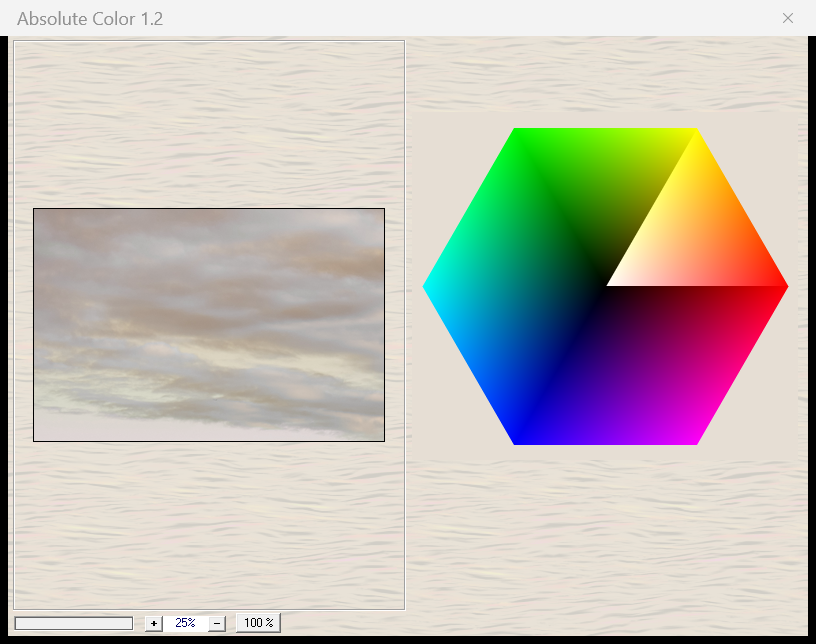
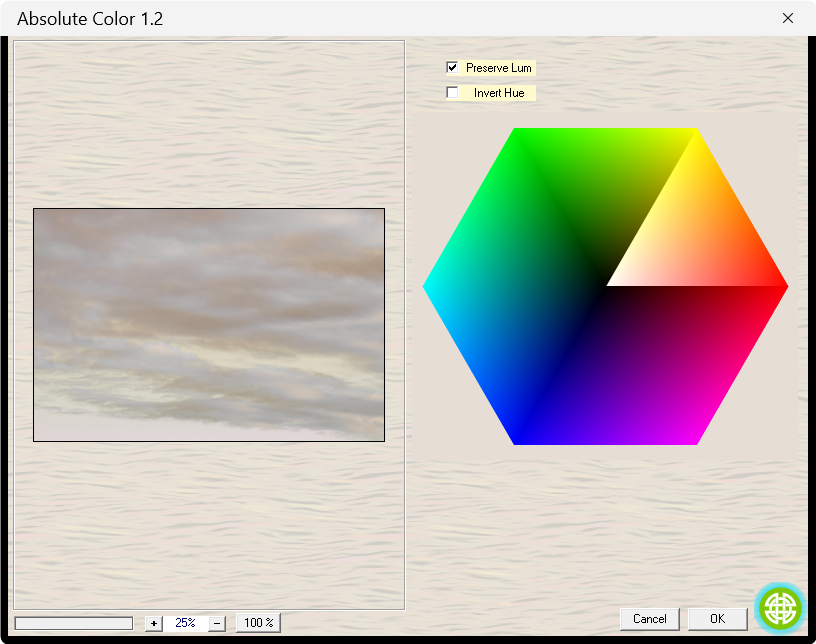
README screenshot driver runs the plug-in dialog scene, skipped without its fixture

diff --git a/scripts/dev/readme-shots/plugin-dialog.js b/scripts/dev/readme-shots/plugin-dialog.js
@@ -3,9 +3,10 @@
 // @description dialog for docs/images/screenshots/plugin_dialog.png. Dev tooling, never staged.
 // @cli --script-arg out=plugin_dialog.png --script-arg plugins=local-test-fixtures/photoshop-plugins/mehdi --script-arg photo=test-fixtures/readme/san_francisco_cityscape_cc0.jpg --script-arg name=Absolute Color
 //
-// Windows only, and manual: the plug-in (Mehdi's Absolute Color, see agents_local.md)
-// is not committed, so this scene is not in scripts\make-readme-screenshots.ps1's table.
-// Run it from a real (not offscreen) session, for example:
+// Windows only. The plug-in (Mehdi's Absolute Color, see agents_local.md) is not
+// committed: scripts\make-readme-screenshots.ps1 lists this scene as plugin_dialog
+// and skips it when local-test-fixtures\photoshop-plugins\mehdi is missing. To run
+// it by hand from a real (not offscreen) session:
 //
 //   set PATCHY_NO_SINGLE_INSTANCE=1
 //   build\release\patchy.exe --run-script scripts\dev\readme-shots\plugin-dialog.js ^

diff --git a/docs/plugins.md b/docs/plugins.md
@@ -55,7 +55,7 @@ permission; desktop screenshots, global input, and control of other applications
 (AGENTS.md). Use task-owned instances with isolated settings. See
 [testing.md](testing.md#native-visual-qa-and-app-driving-commands).
 
-`patchy.plugins.list()` (`{id, name, category, path, supported, reason, architecture}` for every file the last scan saw), `patchy.plugins.rescan()`, `patchy.plugins.folders` (get/set, persisted, rescans), `patchy.plugins.folder` (the plug-ins folder, created with its README on read; "" off Windows), `layer.applyPlugin(id, {dialog?: boolean, captureDialog?: string})` (8 or 16-bit pixel layers; unknown options throw): `captureDialog` is a PNG path; the runner's `DialogAcceptor` saves the helper's first visible top-level window with `PrintWindow(PW_RENDERFULLCONTENT)` once it has been up 0.7 s (with `dialog:true` in an attended run it only captures; unattended runs show the dialog for the capture and then answer it). The auto-accept escalates while a window stays up: a standard OK button or the IDOK command, then the Enter key (custom UIs such as KPT's MetaOS windows have no Button controls), then WM_CLOSE and SC_CLOSE, and after eight answers to a window that is still up the runner gives up and ends the helper (KPT ignores them and spins in its own loop), so an unattended run ends as "cancelled" at worst instead of hanging. Off the interactive window station (a service or ssh session) Windows never shows the dialog, so the helper's hidden `#32770` dialogs are answered, uncaptured (`dialogs_can_be_hidden`). Only the helper's largest visible window is captured and answered (KPT's MetaOS opens a 153x44 stub, then a full-screen `CCanvas`); `PATCHY_8BF_DIALOG_SETTLE_MS` (default 700) is how long a new window is left alone first, `PATCHY_8BF_ACCEPT_CLICK=dx,dy` (developer knob) first clicks that far from the window's bottom-right corner (KPT's OK mark lives there; `30,30` accepts it), and `PATCHY_8BF_TRACE=1` also prints every helper window (class, title, size) and every `advanceState` request to stderr. Verified plug-ins: Filter Foundry builds (32/64), Mehdi's Absolute Color (32/64), Kai's Power Tools 5 (Blurrrr and Orb-It apply their result; the full-screen MetaOS interface and its preview work; KPT 3 is untested), and [G'MIC-Qt for 8bf hosts](https://github.com/0xC0000054/gmic-8bf/releases) 4.0.4 x64 (unzip it into the plug-ins folder; Sepia on a layer and inside a selection, October 2026. It needs the Parameters selector and a real display: an unattended `applyPlugin` or a `--headless` run ends as cancelled. Untested: 16-bit, transparency, resizing filters, the 32-bit build). It backs `docs/images/screenshots/plugin_dialog.png` (`scripts/dev/readme-shots/plugin-dialog.js`, run separately: the plug-in is third-party).
+`patchy.plugins.list()` (`{id, name, category, path, supported, reason, architecture}` for every file the last scan saw), `patchy.plugins.rescan()`, `patchy.plugins.folders` (get/set, persisted, rescans), `patchy.plugins.folder` (the plug-ins folder, created with its README on read; "" off Windows), `layer.applyPlugin(id, {dialog?: boolean, captureDialog?: string})` (8 or 16-bit pixel layers; unknown options throw): `captureDialog` is a PNG path; the runner's `DialogAcceptor` saves the helper's first visible top-level window with `PrintWindow(PW_RENDERFULLCONTENT)` once it has been up 0.7 s (with `dialog:true` in an attended run it only captures; unattended runs show the dialog for the capture and then answer it). The auto-accept escalates while a window stays up: a standard OK button or the IDOK command, then the Enter key (custom UIs such as KPT's MetaOS windows have no Button controls), then WM_CLOSE and SC_CLOSE, and after eight answers to a window that is still up the runner gives up and ends the helper (KPT ignores them and spins in its own loop), so an unattended run ends as "cancelled" at worst instead of hanging. Off the interactive window station (a service or ssh session) Windows never shows the dialog, so the helper's hidden `#32770` dialogs are answered, uncaptured (`dialogs_can_be_hidden`). Only the helper's largest visible window is captured and answered (KPT's MetaOS opens a 153x44 stub, then a full-screen `CCanvas`); `PATCHY_8BF_DIALOG_SETTLE_MS` (default 700) is how long a new window is left alone first, `PATCHY_8BF_ACCEPT_CLICK=dx,dy` (developer knob) first clicks that far from the window's bottom-right corner (KPT's OK mark lives there; `30,30` accepts it), and `PATCHY_8BF_TRACE=1` also prints every helper window (class, title, size) and every `advanceState` request to stderr. Verified plug-ins: Filter Foundry builds (32/64), Mehdi's Absolute Color (32/64), Kai's Power Tools 5 (Blurrrr and Orb-It apply their result; the full-screen MetaOS interface and its preview work; KPT 3 is untested), and [G'MIC-Qt for 8bf hosts](https://github.com/0xC0000054/gmic-8bf/releases) 4.0.4 x64 (unzip it into the plug-ins folder; Sepia on a layer and inside a selection, October 2026. It needs the Parameters selector and a real display: an unattended `applyPlugin` or a `--headless` run ends as cancelled. Untested: 16-bit, transparency, resizing filters, the 32-bit build). It backs `docs/images/screenshots/plugin_dialog.png` (`scripts/dev/readme-shots/plugin-dialog.js`, driver scene `plugin_dialog`, skipped without the third-party fixture).
 
 ### Tests
 

diff --git a/docs/testing.md b/docs/testing.md
@@ -119,13 +119,12 @@ Two pipelines:
   would block a script on; `shot_readme_long_shadow` opens the Layer Style dialog
   beside generated editable text with a live continuous shadow.
 
-One scene is invoked separately: `scripts/dev/readme-shots/plugin-dialog.js` produces
+`scripts/dev/readme-shots/plugin-dialog.js` (driver scene `plugin_dialog`) produces
 `docs/images/screenshots/plugin_dialog.png`, the dialog of a third-party 8bf plug-in
 (Mehdi's Absolute Color from `local-test-fixtures/photoshop-plugins/mehdi`) captured through
-`layer.applyPlugin(id, {captureDialog})` on Windows. It is not in the driver's table because
-the plug-in is not committed; invoke the script explicitly (see its header) when the shot
-needs refreshing. Its window-targeted capture and automatic dialog answers are authorized
-Patchy automation, not desktop control.
+`layer.applyPlugin(id, {captureDialog})` on Windows. The plug-in is not committed, so the
+driver skips the scene with a `[SKIP]` line where that folder is missing; its window-targeted
+capture and automatic dialog answers are authorized Patchy automation, not desktop control.
 
 Both pipelines round the corners of the window they captured, because DWM rounds Patchy's
 frameless windows in the compositor and a `QWidget::grab()` is therefore square. The offscreen

diff --git a/docs/readme-showcase.md b/docs/readme-showcase.md
@@ -28,6 +28,7 @@ or `-Scene plugin_kpt5`. It requires the Windows 32-bit legacy helper.
 | `smart_filters.png` (hero) | `shot_readme_smart_filters` | `local-test-fixtures/psd/akiko_cycling_okinawa.jpg`, grouped captions, clipping, a Levels adjustment, and color controls |
 | `layer_styles.png` | `shot_readme_layer_styles` | `local-test-fixtures/psd/ipad_main_v04.psd`, live layer styles and gradient color controls |
 | `plugin_kpt5.png` | `scripts/dev/readme-shots/plugin-kpt5.js` | Licensed KPT 5 fixture and the existing CC0 city photograph |
+| `plugin_dialog.png` | `scripts/dev/readme-shots/plugin-dialog.js` | `local-test-fixtures/photoshop-plugins/mehdi` (Mehdi's Absolute Color, not committed; skipped when absent) and the CC0 city photograph |
 | `object_select.png` | `scripts/dev/readme-shots/object-select.js` | `test-fixtures/readme/havana_vintage_car_cc0.jpg` (CC0), cropped in the script; needs the High Quality model (the script downloads it when missing) |
 | `smart_objects.png` (gallery only) | `shot_readme_smart_objects` | Local PSD fixtures used by the existing scene |
 | `vector_tools.png` | `shot_readme_vector_tools` | Generated vector artwork with gradient fill, rounded corners, and a dashed pattern stroke |
